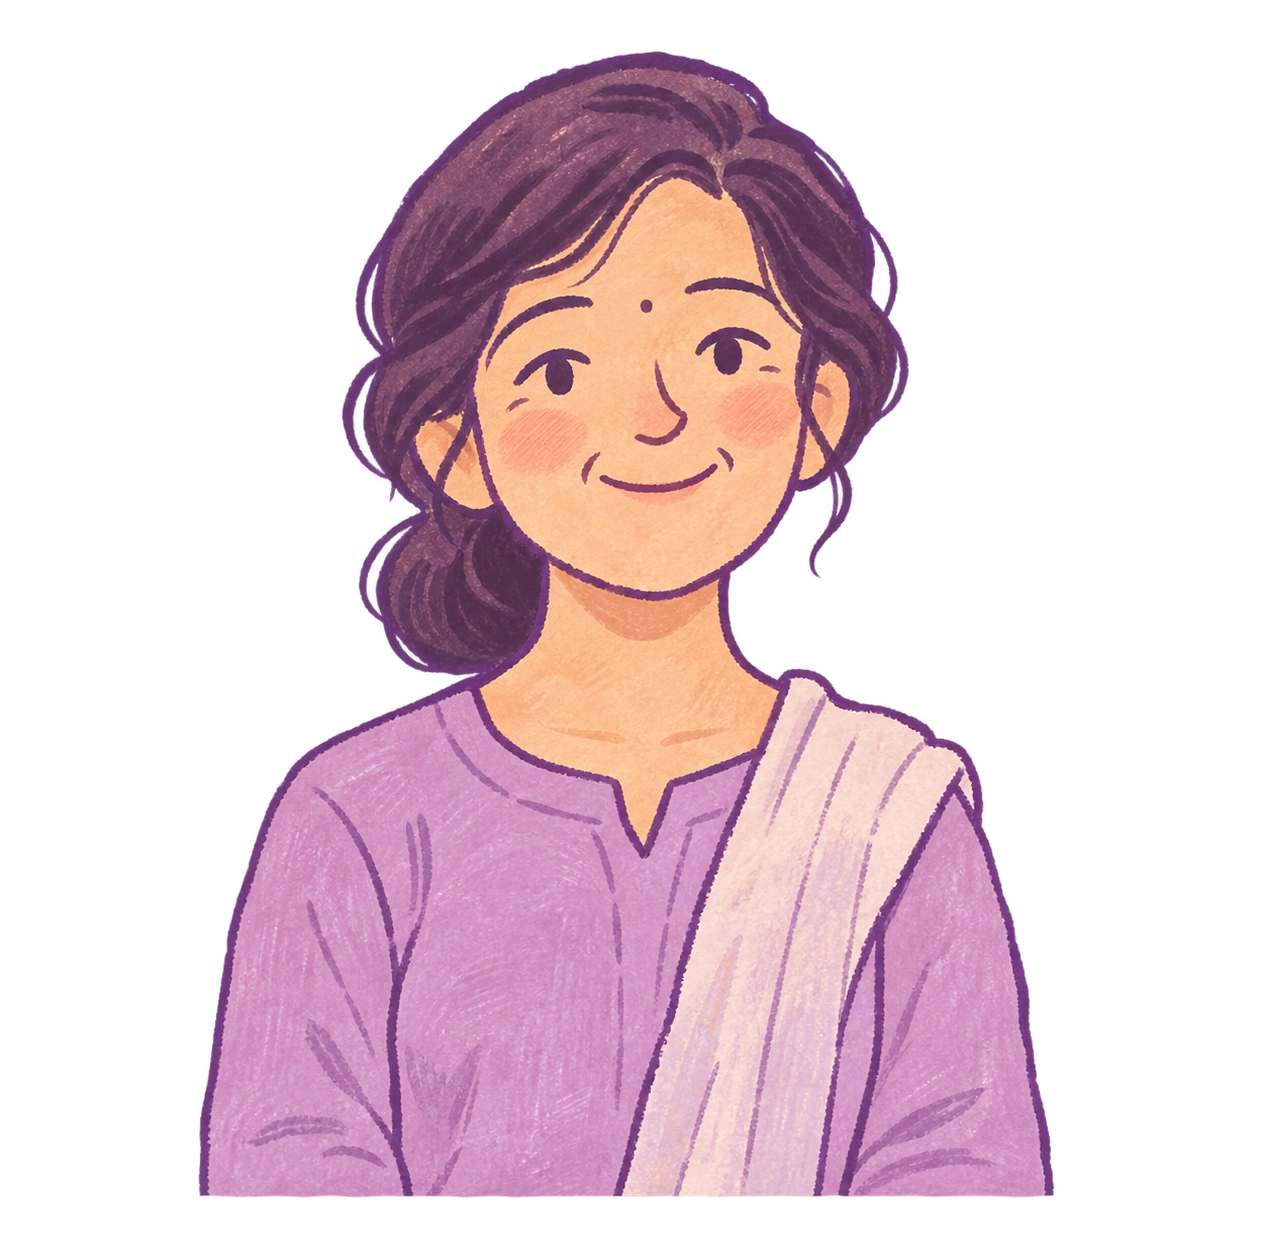
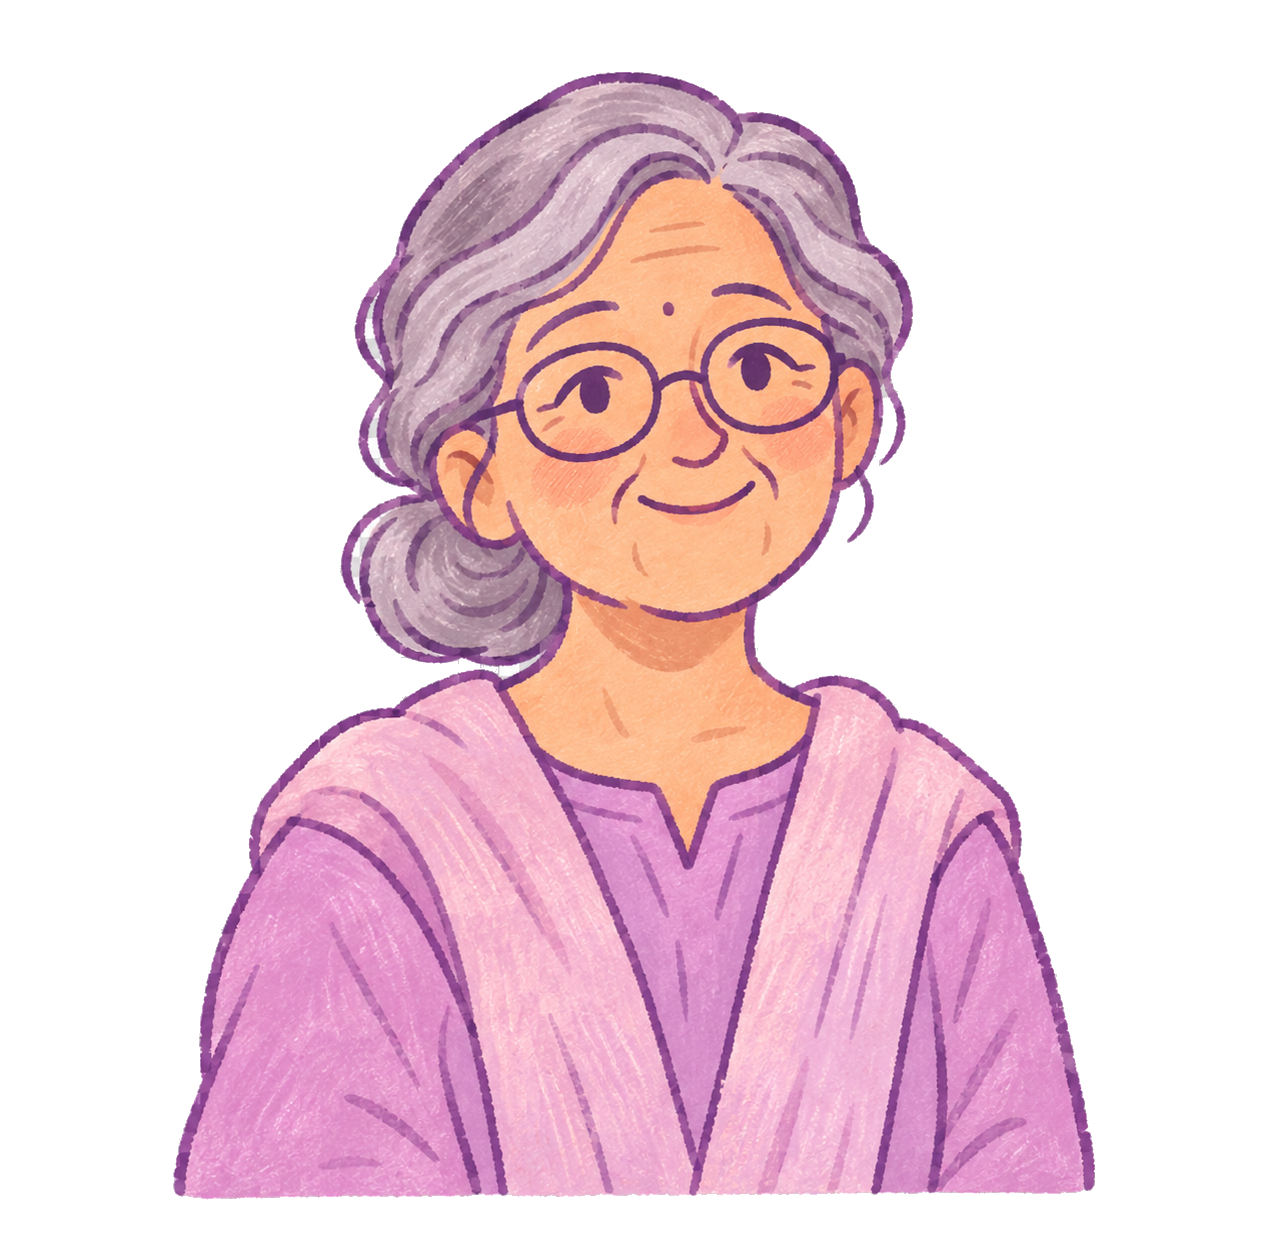
Update CareNest demo profiles and patient illustration

Changed region(s): [[0.1237, 0.0306, 0.866, 0.9783], [0.4639, 0.5503, 0.4948, 0.5809]]

diff --git a/assets/demos/scanner.js b/assets/demos/scanner.js
@@ -1,17 +1,17 @@
 (() => {
   const dialog = document.querySelector('#scanner-demo');
   const devices = dialog.querySelector('#scanner-devices');
-  const patientName = 'Meera Rao';
+  const patientName = 'Sujata Sahoo';
   const patientId = 'CN-482731';
   const sample = { patient: patientName, item: 'Sample item A', details: 'Placeholder text' };
   const profiles = [
-    { label: 'Patient', name: patientName, firstName: 'Meera', age: 42 },
-    { label: 'Caregiver', name: 'Asha Rao', firstName: 'Asha', age: 29 },
+    { label: 'Patient', name: patientName, firstName: 'Sujata', age: 62 },
+    { label: 'Caregiver', name: 'Ananya Sahoo', firstName: 'Ananya', age: 31 },
   ];
   const scannerIcon = `<svg viewBox="0 0 24 24" fill="none" stroke="currentColor" stroke-width="1.8" aria-hidden="true">
     <path d="M4 9V4h5m6 0h5v5m0 6v5h-5m-6 0H4v-5M4 12h16" stroke-linecap="round" stroke-linejoin="round"/>
   </svg>`;
-  const portrait = '<img src="assets/images/linking-demo-patient.png" alt="CareNest illustration of Meera Rao">';
+  const portrait = '<img src="assets/images/linking-demo-patient.png" alt="CareNest illustration of Sujata Sahoo">';
 
   function buildDevice(profile) {
     const device = document.createElement('div');
@@ -31,7 +31,7 @@
       const context = isPatient
         ? `<div class="linking-card">${greeting}<div class="linking-profile"><p>Patient ID: ${patientId}</p>${portrait}</div></div>`
         : `${greeting}<div class="linking-card"><h4>Patient context</h4><span class="linking-badge">Connected</span>
-          <div class="linking-profile"><div><strong>${patientName}</strong><p>Age: 42 · Patient account</p>
+          <div class="linking-profile"><div><strong>${patientName}</strong><p>Age: 62 · Patient account</p>
           <p>Patient ID: ${patientId}</p></div>${portrait}</div></div>`;
       screen.innerHTML = `<h3>${profile.label} Dashboard</h3>${context}
         <button type="button" class="scanner-fab" aria-label="Open prescription scanner">${scannerIcon}</button>`;
@@ -53,7 +53,7 @@
     function showSample() {
       screen.classList.remove('scanner-dashboard');
       screen.innerHTML = `<h3>Scan a prescription</h3>
-        <img class="scanner-sample" src="assets/images/scanner-demo-prescription.svg" alt="Illustrated sample prescription for Meera Rao, with a fictional item and placeholder details">
+        <img class="scanner-sample" src="assets/images/scanner-demo-prescription.svg" alt="Illustrated sample prescription for Sujata Sahoo, with a fictional item and placeholder details">
         <button type="button" data-scan>Scan sample prescription</button>
         <button type="button" class="linking-secondary" data-back>Back to dashboard</button>`;
       screen.querySelector('[data-scan]').addEventListener('click', () => showDraft(sample));

diff --git a/assets/demos/multilogin.js b/assets/demos/multilogin.js
@@ -3,10 +3,10 @@
   const screen = dialog.querySelector('.linking-screen');
   const status = dialog.querySelector('.linking-status');
   const accounts = {
-    caregiver: { firstName: 'Asha', name: 'Asha Rao', age: 29, role: 'Caregiver' },
-    patient: { firstName: 'Meera', name: 'Meera Rao', age: 42, role: 'Patient' },
+    caregiver: { firstName: 'Ananya', name: 'Ananya Sahoo', age: 31, role: 'Caregiver' },
+    patient: { firstName: 'Sujata', name: 'Sujata Sahoo', age: 62, role: 'Patient' },
   };
-  const portrait = '<img src="assets/images/linking-demo-patient.png" alt="CareNest illustration of Meera Rao">';
+  const portrait = '<img src="assets/images/linking-demo-patient.png" alt="CareNest illustration of Sujata Sahoo">';
   const switchButton = '<button type="button" data-view="switch">Switch account</button>';
   let active = 'caregiver';
 
@@ -21,8 +21,8 @@
       else tab.removeAttribute('aria-current');
     }
 
-    const patientProfile = `<div class="linking-profile"><div><strong>Meera Rao</strong>
-      <p>Age: 42 · Patient account</p><p>Patient ID: CN-482731</p></div>${portrait}</div>`;
+    const patientProfile = `<div class="linking-profile"><div><strong>Sujata Sahoo</strong>
+      <p>Age: 62 · Patient account</p><p>Patient ID: CN-482731</p></div>${portrait}</div>`;
     const greeting = `<h4>Hello, ${account.firstName}!</h4>`;
     const details = `<strong>${account.name}</strong><p>Age: ${account.age} · ${account.role} account</p>`;
     const homeContent = isPatient
@@ -31,7 +31,7 @@
         <span class="linking-badge">Connected</span>${patientProfile}</div>`;
     const accountContent = isPatient
       ? '<h3>Account</h3><div class="linking-card"><h4>Caregiver requests</h4><p>No pending demo requests.</p></div>'
-      : `<h3>More</h3><p>Patient context: Meera Rao</p><ul class="multilogin-list">
+      : `<h3>More</h3><p>Patient context: Sujata Sahoo</p><ul class="multilogin-list">
         <li>Patient history</li><li>Doctor instructions</li><li>Documents</li><li>Allergies</li><li>Emergency contacts</li></ul>`;
     const alternate = Object.entries(accounts).find(([key]) => key !== active);
     const [alternateKey, alternateAccount] = alternate;

diff --git a/assets/demos/patient-linking.js b/assets/demos/patient-linking.js
@@ -8,16 +8,16 @@
   const status = dialog.querySelector('.linking-status');
   const play = dialog.querySelector('[data-play]');
   const reducedMotion = matchMedia('(prefers-reduced-motion: reduce)');
-  const patient = { name: 'Meera Rao', age: 42, id: 'CN-482731' };
-  const caregiver = { name: 'Asha Rao', age: 29 };
-  const portrait = '<img src="assets/images/linking-demo-patient.png" alt="CareNest illustration of Meera">';
+  const patient = { name: 'Sujata Sahoo', age: 62, id: 'CN-482731' };
+  const caregiver = { name: 'Ananya Sahoo', age: 31 };
+  const portrait = '<img src="assets/images/linking-demo-patient.png" alt="CareNest illustration of Sujata">';
   const profile = `<div class="linking-profile"><div><strong>${patient.name}</strong>
     <p>Age: ${patient.age} · Patient account</p><p>Patient ID: ${patient.id}</p></div>${portrait}</div>`;
   const action = (label, next) => `<button type="button" data-next="${next}">${label}</button>`;
   const scenes = {
     patient: {
       caption: 'The patient sees their shareable ID.',
-      html: `<h3>Patient Dashboard</h3><div class="linking-card"><h4>Hello, Meera!</h4>${profile}
+      html: `<h3>Patient Dashboard</h3><div class="linking-card"><h4>Hello, Sujata!</h4>${profile}
         <p>Share your Patient ID with your caregiver so they can request a connection.</p></div>`,
     },
     caregiver: {
